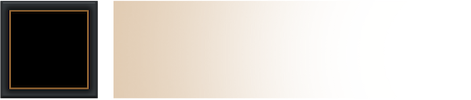
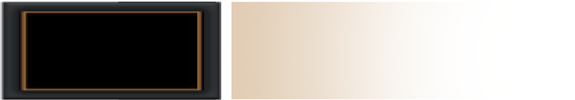
Finish design in front

diff --git a/frontend-assets/src/css/base/_base.scss b/frontend-assets/src/css/base/_base.scss
@@ -75,7 +75,7 @@ input:focus, textarea:focus, button:focus {
 #img_avatars {
     width: 100%;
     height: 500px;
-    background: url('/web/front/img/window.png') no-repeat;
+    background: url('../img/window.png') no-repeat;
     background-size: contain;
     display: flex;
     justify-content: center;
@@ -89,7 +89,7 @@ input:focus, textarea:focus, button:focus {
 
 #dark-window {
     height: 800px;
-    background: url('/web/front/img/dark-window.png') no-repeat;
+    background: url('../img/dark-window.png') no-repeat;
     background-size: contain;
     justify-content: center;
     padding: 45px;
@@ -100,10 +100,28 @@ input:focus, textarea:focus, button:focus {
 }
 
 .building-icon {
-    height: 100px;
-    background: url('/web/front/img/building-case.png') no-repeat;
-    background-size: contain;
-    padding: 15px 5px;
+    margin-bottom: 30px;
+}
+
+#name-building {
+    background: url('../img/name-building.png') no-repeat;
+    background-size: 100% 100%;
+    padding: 10px 0;
+}
+
+#level-building {
+    background: url('../img/level-building.png') no-repeat;
+    background-size: 100% 100%;
+    margin-left: 5px;
+    padding: 20px 0;
+}
+
+.resources-list {
+    color: white;
+}
+
+#write-message {
+    margin-bottom: 25px;
 }
 
 #avatar_messaging {
@@ -113,6 +131,14 @@ input:focus, textarea:focus, button:focus {
     box-shadow: 3px 3px 3px black;
 }
 
+.one_message {
+    padding-bottom: 50px;
+}
+
+.btn-response {
+    margin-top: -30px;
+}
+
 .text-message {
     color: white;
     font-size: 0.7em;
@@ -120,20 +146,20 @@ input:focus, textarea:focus, button:focus {
 
 .messages {
     height: 330px;
-    background: url('/web/front/img/window_messaging.png') no-repeat;
+    background: url('../img/window_messaging.png') no-repeat;
     background-size: contain;
-    padding: 0 30px;
+    padding: 0 40px;
 
     .message-body {
         overflow-y: scroll;
-        height: 40%;
+        height: 30%;
     }
 }
 
 .sale_resource {
     width: 600px;
     height: 250px;
-    background: url('/web/front/img/window_market.png') no-repeat;
+    background: url('../img/window_market.png') no-repeat;
     background-size: contain;
     margin-bottom: 50px;
 

diff --git a/frontend-assets/src/css/components/_buttons.scss b/frontend-assets/src/css/components/_buttons.scss
@@ -6,14 +6,12 @@
     padding: 10px 15px 10px 15px;
     text-decoration: none !important;
     text-shadow: 1px 1px 1px rgba(0, 0, 0, 0.15);
-    text-transform: uppercase;
     transition: all 0.25s;
     background-image: linear-gradient(to bottom, $buttonBorder01, $buttonBorder02);
     background-image: -webkit-linear-gradient(top, $buttonBorder01, $buttonBorder02);
     color: $buttonColor;
     font-size: 24px;
     line-height: 36px;
-    padding: 12px 69px;
     transition: background 0.2s ease-in-out, color 0.2s ease-in-out;
     width: 100%;
     background-size: 1px 200px;

diff --git a/frontend-assets/src/css/styles.css b/frontend-assets/src/css/styles.css
@@ -3246,14 +3246,12 @@ a.navbar-logo {
   padding: 10px 15px 10px 15px;
   text-decoration: none !important;
   text-shadow: 1px 1px 1px rgba(0, 0, 0, 0.15);
-  text-transform: uppercase;
   transition: all 0.25s;
   background-image: linear-gradient(to bottom, #b93a27, #9e1e0b);
   background-image: -webkit-linear-gradient(top, #b93a27, #9e1e0b);
   color: #f3aa55;
   font-size: 24px;
   line-height: 36px;
-  padding: 12px 69px;
   transition: background 0.2s ease-in-out, color 0.2s ease-in-out;
   width: 100%;
   background-size: 1px 200px;
